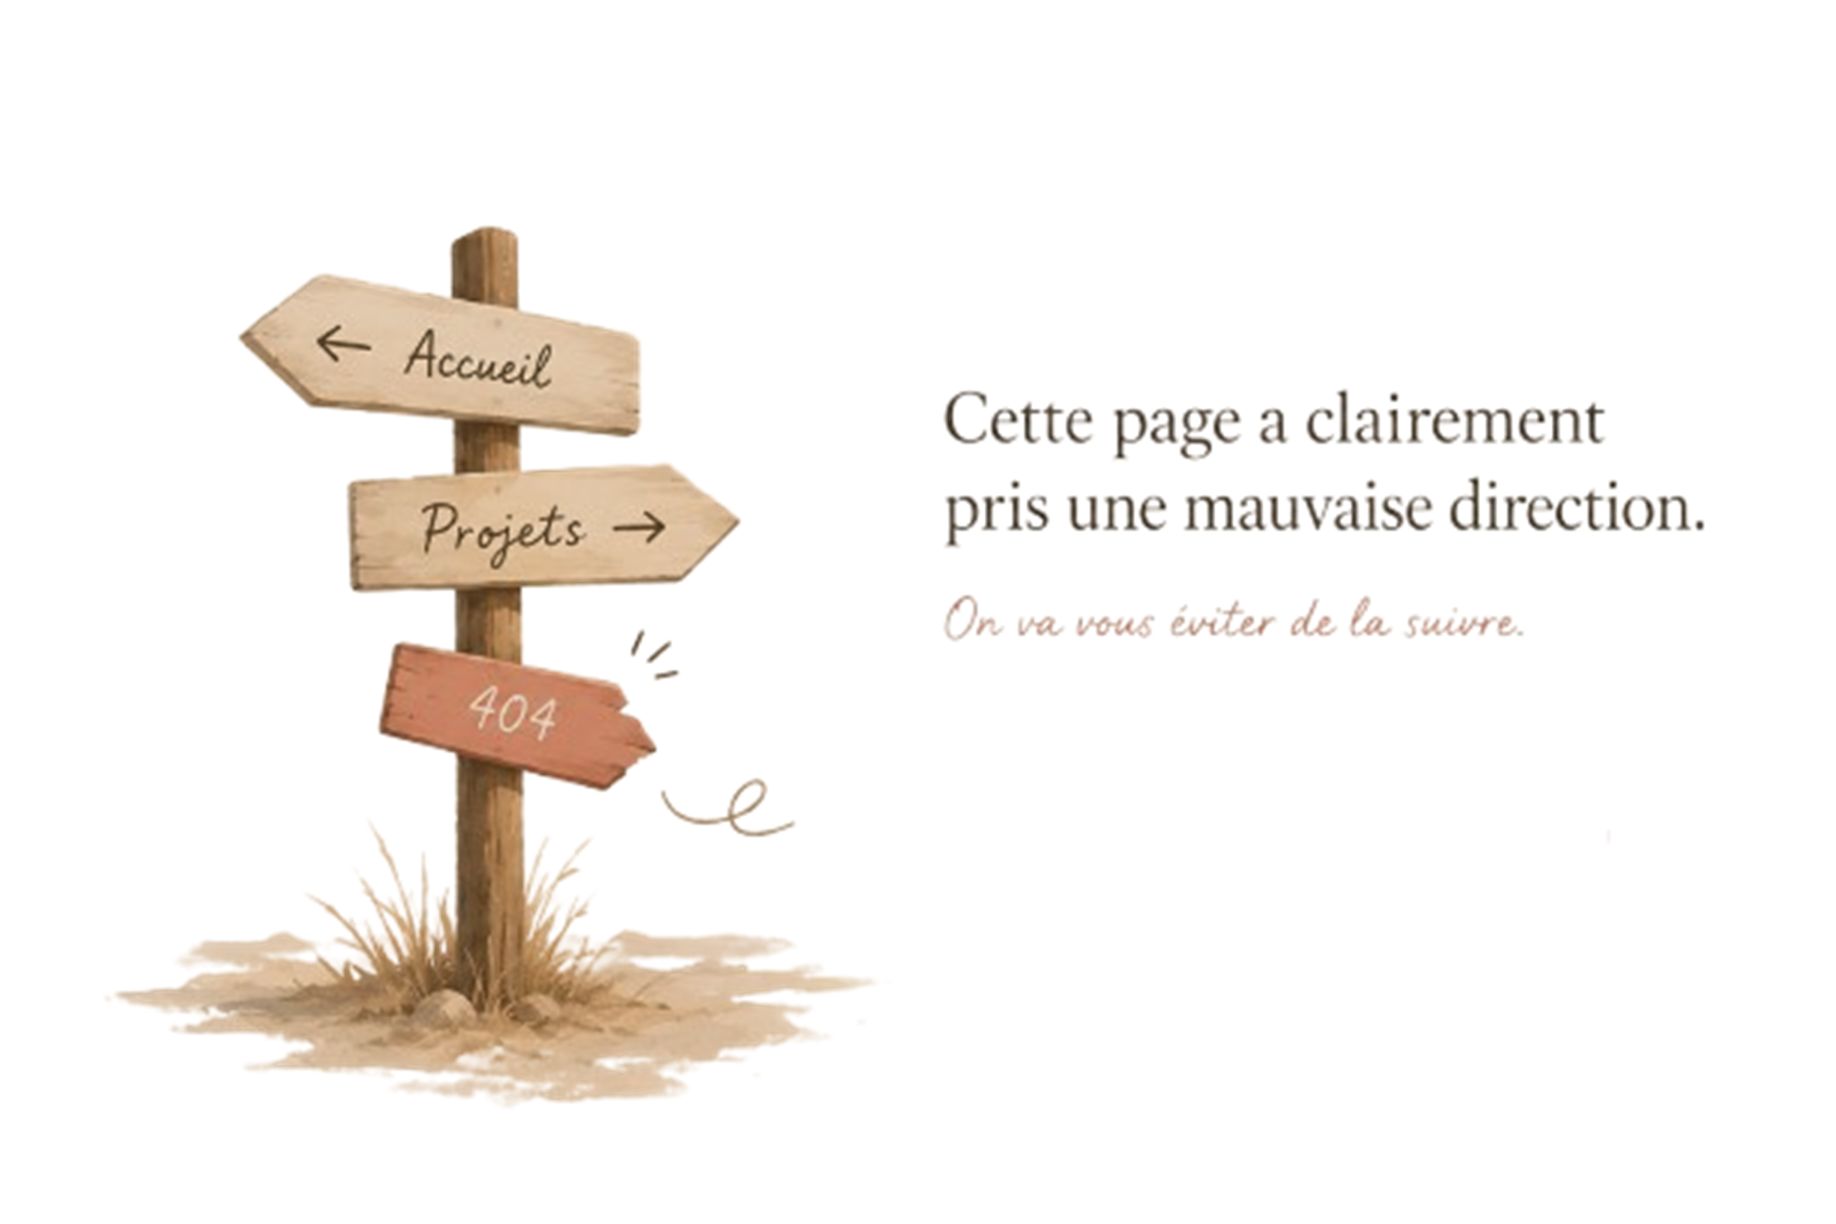
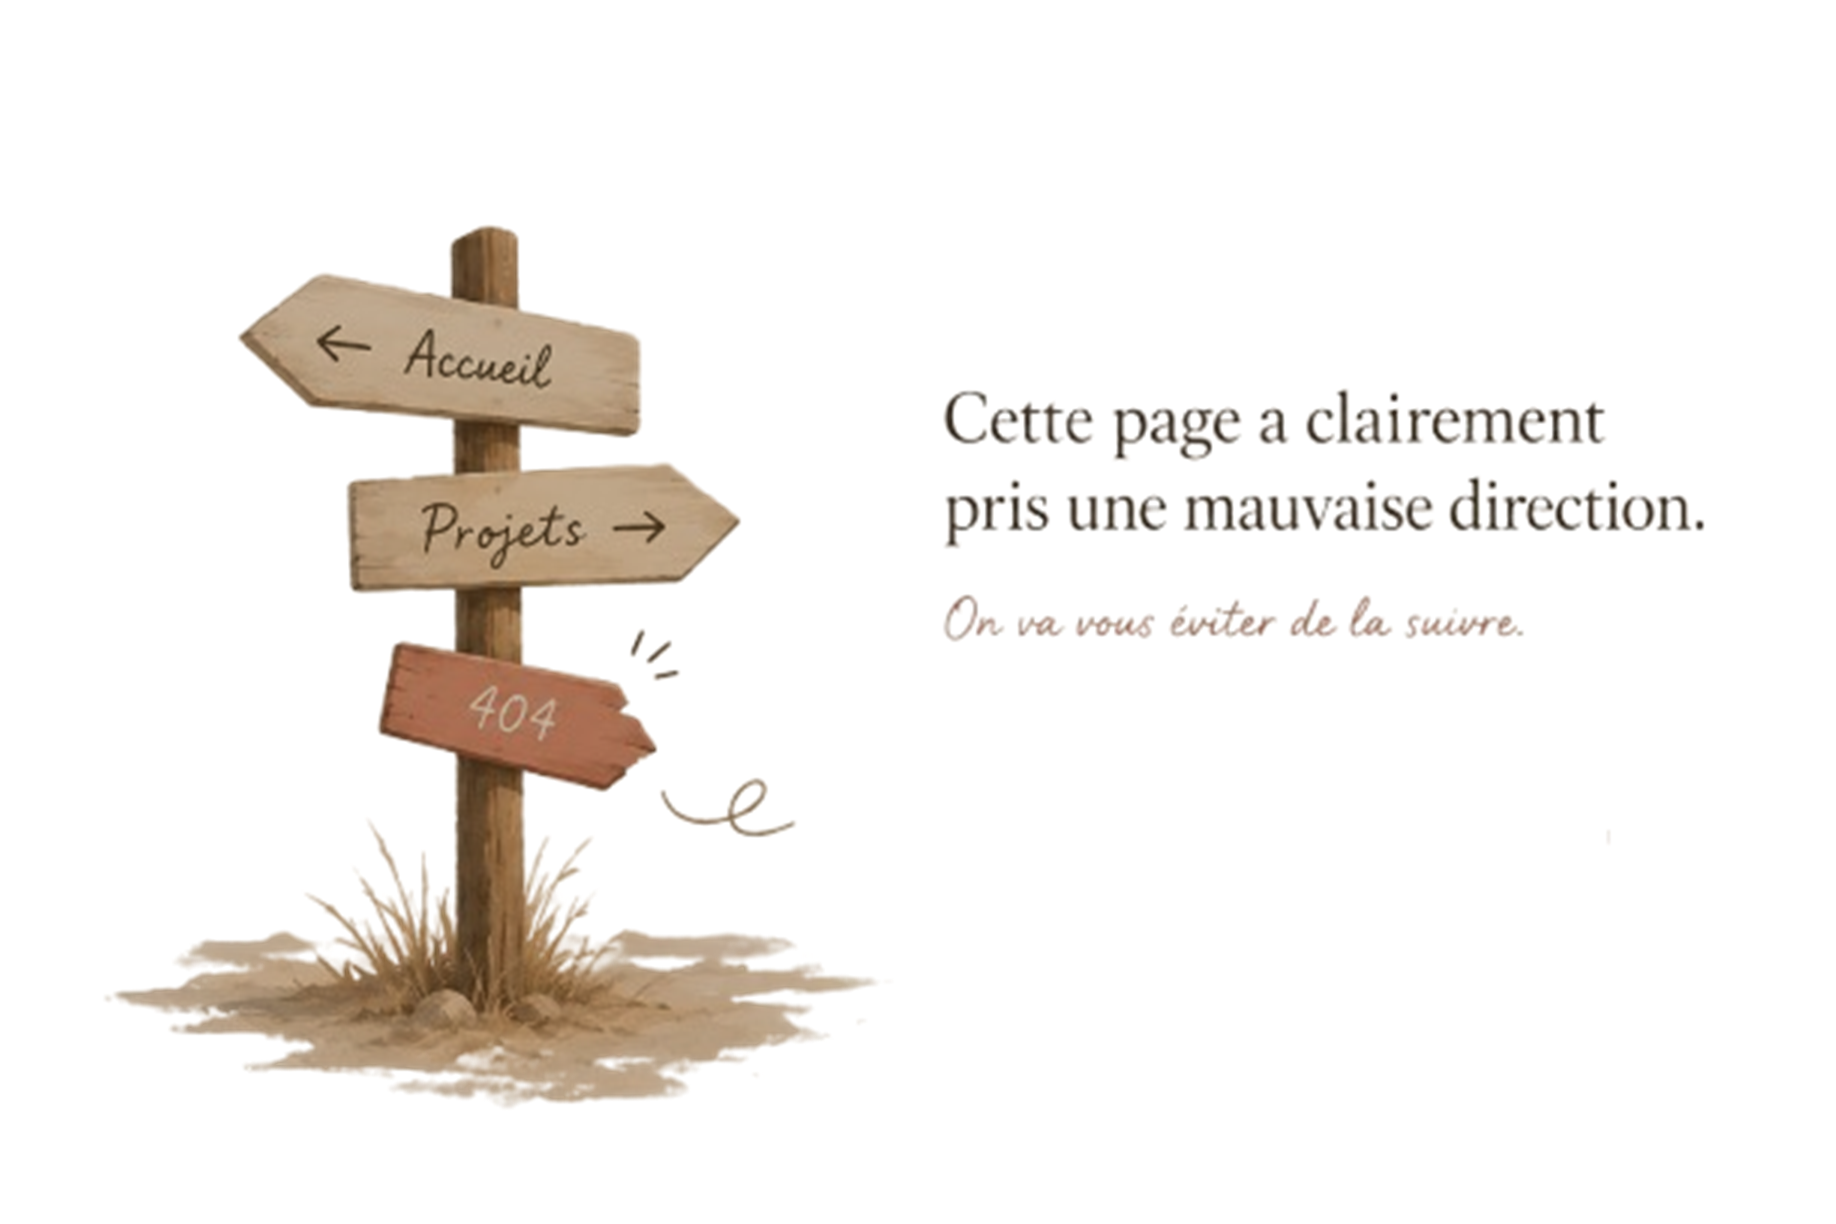
style(404): agrandissement de l'illustration (720px) et accentuation de la densité du texte

Changed region(s): [[0.0621, 0.1863, 0.4657, 0.9003]]

diff --git a/404.html b/404.html
@@ -20,13 +20,13 @@
     }
     .error-404-hero-img {
       width: 100%;
-      max-width: 612px;
+      max-width: 720px;
       height: auto;
       display: block;
       margin: 0 auto;
       image-rendering: -webkit-optimize-contrast;
       image-rendering: crisp-edges;
-      filter: contrast(1.1) saturate(1.18);
+      filter: contrast(1.15) saturate(1.22) brightness(0.96);
     }
   </style>
 </head>
@@ -55,7 +55,7 @@
     <section class="spa-page-section active" style="width: 100%; display: flex; align-items: center; justify-content: center; background-color: var(--color-surface) !important;">
       <div class="content-wrap" style="width: 100%; display: flex; align-items: center; justify-content: center; padding: 0;">
         
-        <div class="error-404-layout" style="position: relative; width: 100%; max-width: 612px; margin: 0 auto; display: flex; justify-content: center; align-items: center;">
+        <div class="error-404-layout" style="position: relative; width: 100%; max-width: 720px; margin: -20px auto 0 auto; display: flex; justify-content: center; align-items: center;">
           <img src="assets/404-illustration.png" alt="Cette page a clairement pris une mauvaise direction - 404 Karine Marquis" class="error-404-hero-img">
           
           <!-- Interactive overlay click zones over the image buttons -->

diff --git a/styles.css b/styles.css
@@ -2397,11 +2397,11 @@ strong, b {
 
 .error-404-hero-img {
   width: 100%;
-  max-width: 612px;
+  max-width: 720px;
   height: auto;
   display: block;
   margin: 0 auto;
   image-rendering: -webkit-optimize-contrast;
   image-rendering: crisp-edges;
-  filter: contrast(1.1) saturate(1.18);
+  filter: contrast(1.15) saturate(1.22) brightness(0.96);
 }
